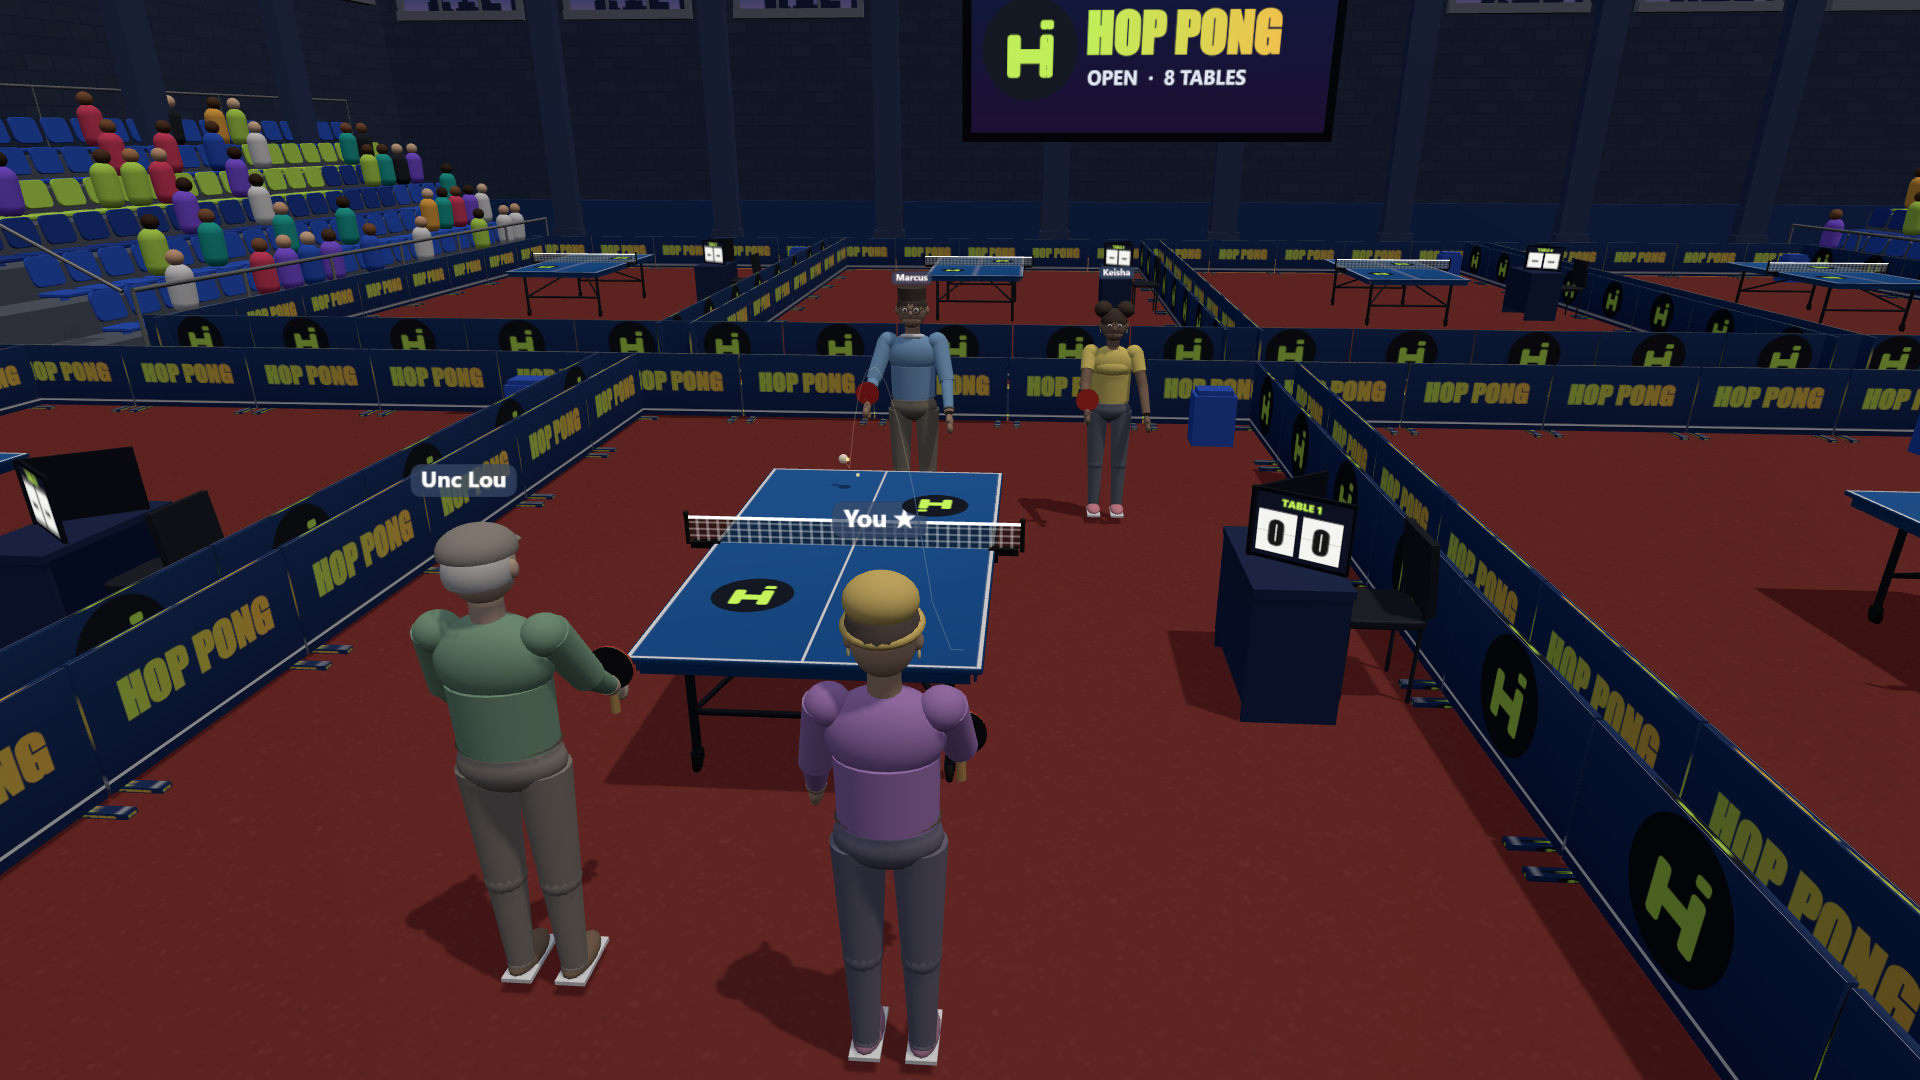
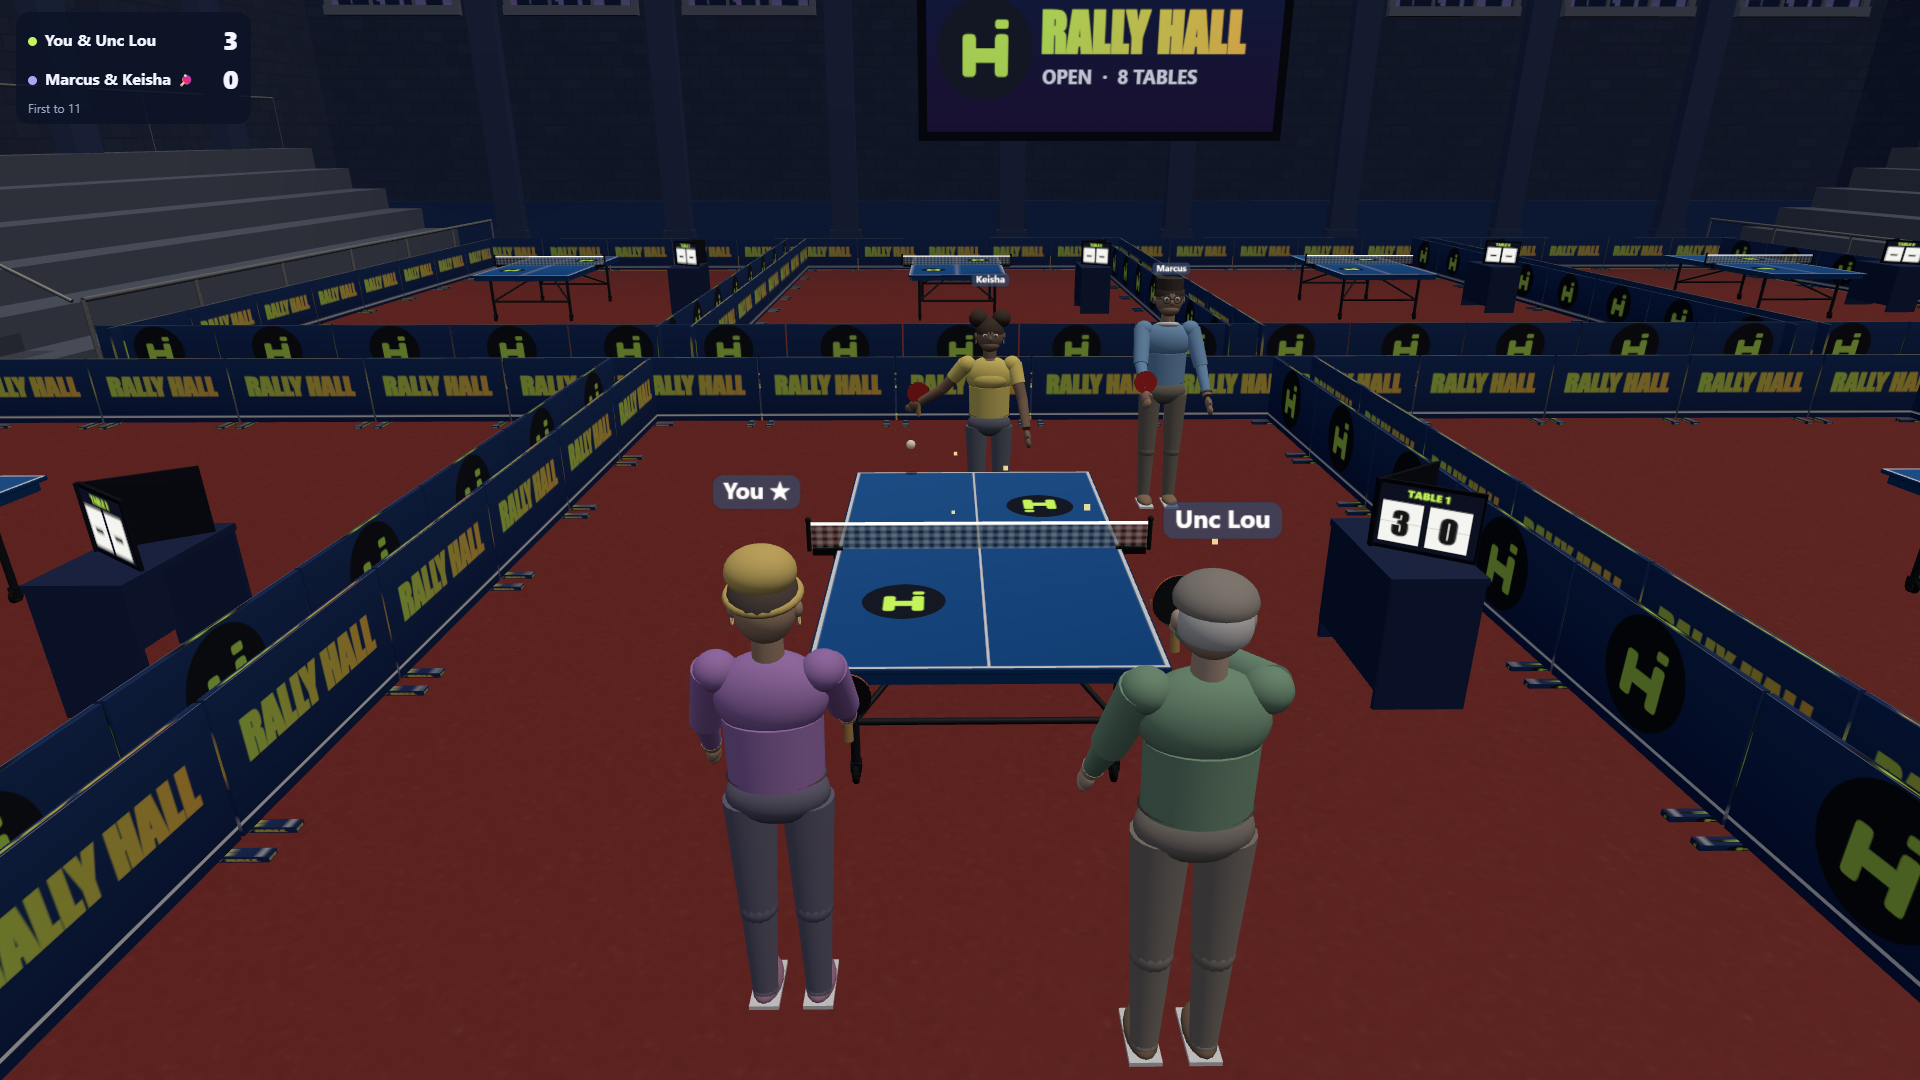
HopLobby 1.7 compliance: endGame results (HopLobby runs the rematch), no own play-again, new cover and screenshots

diff --git a/Work/src/game.js b/Work/src/game.js
@@ -162,7 +162,7 @@ export class Session {
   // four in doubles, the computer filling the empty seats.
   begin() {
     if (!this.isHost) return;
-    this.begun = true;
+    this.begun = true; this.roundEnded = false;
     this.syncQueue();
     this.tables.forEach((tb) => this.clearTable(tb));
     if (this.opts.mode === "tournament") {
@@ -202,6 +202,36 @@ export class Session {
     const tbs = this.tables.filter((tb) => tb.setup);
     tbs.forEach((tb) => { tb.match = null; tb.ui = { ph: "done" }; this.cb.onUi && this.cb.onUi(tb.ui, tb.n); });
     this.broadcastFull();
+    this.endRound();
+  }
+
+  // HopLobby runs the rematch (platform rule): when every game of the round is over the host hands
+  // the results to the app (main.js calls HopLobby.endGame), and HopLobby opens its rematch window.
+  // A round is a tournament, or one game at each table that's in use.
+  endRound() {
+    if (this.roundEnded || !this.isHost) return;
+    this.roundEnded = true;
+    const entries = [];
+    if (this.tour) {
+      const rounds = T.roundsOf(this.tour).length;
+      this.tour.draw.forEach((e) => {
+        if (!e.human || !e.id) return;
+        const r = T.eliminated(this.tour, e.id);
+        const champ = this.tour.champion === e.id;
+        entries.push({ playerId: e.id, place: champ ? 1 : 2 + (rounds - 1 - Math.max(0, r)), label: champ ? "Champion" : undefined });
+      });
+    } else {
+      this.tables.forEach((tb) => {
+        const res = tb.ui && tb.ui.res;
+        if (!res) return;
+        res.seats.forEach((s) => {
+          if (!s.id) return;
+          const won = s.seat[0] === res.winner;
+          entries.push({ playerId: s.id, place: won ? 1 : 2, score: res.sc[s.seat[0] === "p" ? 0 : 1], label: won ? "Won" : "Lost" });
+        });
+      });
+    }
+    this.cb.onRoundEnd && this.cb.onRoundEnd(entries);
   }
 
   setUi(tb, ui) {
@@ -276,6 +306,8 @@ export class Session {
       evs.forEach((e) => tb.evBuf.push(this.packEvent(e)));
       this.handleEvents(tb, evs);
     }
+    // A casual round is over once every table's game has finished.
+    if (!this.tour && !this.roundEnded && !this.playing() && this.tables.some((tb) => tb.ui.ph === "result")) this.endRound();
     this.sendT += dt;
     if (this.sendT >= SEND_EVERY) { this.sendT = 0; this.sendSnapshot(); }
     this.noteLeavers();

diff --git a/Work/src/main.js b/Work/src/main.js
@@ -187,7 +187,7 @@ function onUi(ui, n) {
   if (n !== undefined && n !== S.focus().n) return;
   state.lastUi = ui;
   const mySide = S.mySeat() ? side(S.mySeat()) : null;
-  HUD.overlays(ui, { mySide, myId: S.net.me, tour: S.tour, busy: S.playing() });
+  HUD.overlays(ui, { mySide, myId: S.net.me, tour: S.tour, busy: S.playing(), managed: !!state.managed });
   Input.enabled = !ui || ui.ph === "play";
   if (ui && ui.ph === "result") A.music("results"); else A.music("play");
 }
@@ -308,11 +308,15 @@ async function boot() {
   // The session
   const o = ctx.options || defaults;
   const solo = o.play === "solo";
+  const managed = !!HL && !solo && !ctx.standalone;   // HopLobby runs the rematch
   const net = solo ? makeSoloNet(ctx) : makeNet(ctx);
   const S = state.S = new Session(net, { mode: o.mode || "singles", target: +o.points || 11, ai: o.ai || "rising" }, {
     onEvent, onUi,
-    onSetup: (setup, fresh, n) => buildPeople(setup, fresh, n)
+    onSetup: (setup, fresh, n) => buildPeople(setup, fresh, n),
+    // The round is over: HopLobby shows the results and runs the rematch (not in solo: each solo player has their own game).
+    onRoundEnd: (entries) => { if (managed && HL.isHost && entries.length) { try { HL.endGame({ title: "Rally Hall", entries }); } catch (err) { console.warn("endGame", err); } } }
   });
+  state.managed = managed;
   S.net = net;
   Input.init($("view"), $("swipe"), (intent) => { A.unlock(); S.swing(intent); });
   window.addEventListener("pointerdown", () => { A.unlock(); A.music("play"); }, { once: true });

diff --git a/Work/src/hud.js b/Work/src/hud.js
@@ -54,7 +54,8 @@ HUD.overlays = function (ui, ctx) {
     const rowC = row(r.seats.filter((s) => s.seat[0] === "c").map((s) => s.name).join(" & "), r.sc[1], r.winner === "c");
     $("resBody").append(rowP, rowC);
     $("resAgain").textContent = t("again"); $("resLeave").textContent = t("leave");
-    $("resAgain").hidden = false;
+    // Inside a HopLobby lobby the rematch is HopLobby's (platform rule): no play-again of our own.
+    $("resAgain").hidden = !!ctx.managed;
     rs.hidden = false;
   } else if ((ui.ph === "bracket" || ui.ph === "done") && ctx.tour) {
     const tour = ctx.tour;
@@ -85,7 +86,7 @@ HUD.overlays = function (ui, ctx) {
     const others = ui.ph === "bracket" && ctx.busy > 0;
     $("brNote").textContent = ui.ph === "done" ? (tour.champion === ctx.myId ? t("youChamp") : "") : others ? t("othersPlaying", ctx.busy) : (out ? t("eliminated") : mine ? "" : "");
     $("brGo").textContent = ui.ph === "done" ? t("again") : t("continue");
-    $("brGo").hidden = others;
+    $("brGo").hidden = others || (ui.ph === "done" && !!ctx.managed);
     br.hidden = false;
   }
 };
